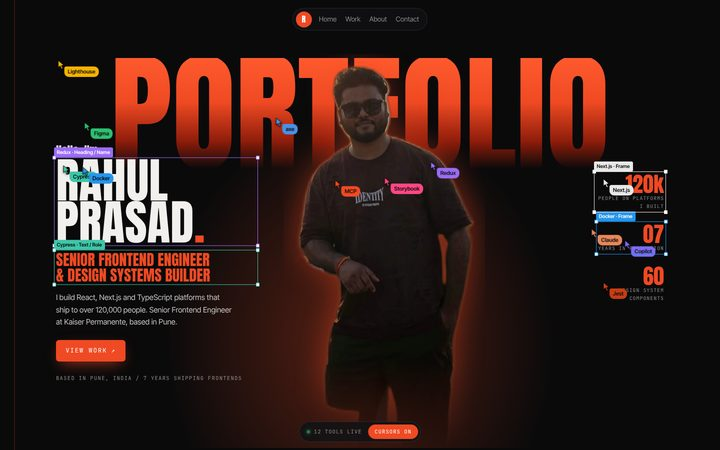
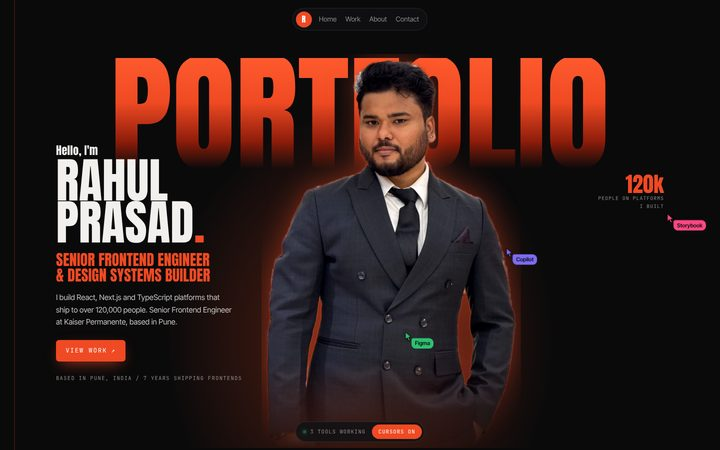
Use a marquee selection and the suit portrait in Live build
Each cursor now presses at an element's top-left corner and drags a
sky-blue rubber-band rectangle to its bottom-right; the element is
revealed inside the rectangle as it grows, then gets its labelled
selection frame.

Replace the hero cut-out with a background-removed portrait in a suit.

diff --git a/designs/live/script.js b/designs/live/script.js
@@ -63,7 +63,7 @@
         <section class="hero" aria-labelledby="hero-name">
             <p class="hero__word" aria-hidden="true" data-select="Text / Portfolio">Portfolio</p>
             <figure class="hero__photo" data-select="Image / Rahul">
-                <img src="../../images/rahul-cutout.webp" alt="${e(P.photoAlt)}" width="817" height="1600">
+                <img src="../../images/rahul-suit.webp" alt="Rahul in a dark double-breasted suit, white shirt and black tie" width="922" height="1400">
             </figure>
 
             <div class="hero__copy">
@@ -302,6 +302,16 @@
         el.classList.add('is-popped');
     }
 
+    /* The marquee: press at the top-left of the element, drag a sky-blue
+       rectangle to the bottom-right, and the element appears inside it */
+    function marquee(color) {
+        const m = document.createElement('div');
+        m.className = 'marquee';
+        if (color) m.style.setProperty('--sel', color);
+        layer.appendChild(m);
+        return m;
+    }
+
     function work(c) {
         const el = c.queue.shift();
         if (!el) return leave(c);
@@ -312,34 +322,38 @@
             return work(c);
         }
 
-        // the element waits off to the side the cursor comes from, then is dragged in
-        const side = c.x < r.left + r.width / 2 ? -1 : 1;
-        const dx = side * (36 + Math.random() * 44), dy = 18 + Math.random() * 26;
-        const gx = Math.max(6, Math.min(r.width - 10, 16 + Math.random() * Math.min(140, r.width * .4)));
-        const gy = Math.max(4, Math.min(r.height - 6, 10 + Math.random() * Math.min(28, r.height * .5)));
-        el.style.translate = `${dx}px ${dy}px`;
-        el.classList.remove('is-pending');
-        el.classList.add('is-ghost');
+        const pad = 6;
+        const corner = function () { const q = el.getBoundingClientRect(); return [q.left - pad, q.top - pad]; };
 
-        const grip = function () { const q = el.getBoundingClientRect(); return [q.left + gx, q.top + gy]; };
-
-        travel(c, grip, 420, function () {
-            const box = select(el, c.name + ' · ' + el.dataset.select, c.color);
-            el.classList.remove('is-ghost');
+        travel(c, corner, 420, function () {
             c.node.classList.add('is-press');
-            setTimeout(function () {
-                animate(520, function (t) {
-                    const k = 1 - ease(t);
-                    el.style.translate = `${(dx * k).toFixed(1)}px ${(dy * k).toFixed(1)}px`;
-                    const p = grip();
-                    setCursor(c, p[0], p[1]);
-                }, function () {
-                    el.style.translate = '';
-                    c.node.classList.remove('is-press');
-                    if (el.matches('[data-count]')) countUp(el);
-                    setTimeout(function () { release(box); work(c); }, 180);
-                });
-            }, 150);
+            const m = marquee(c.color);
+            el.classList.remove('is-pending');
+            el.classList.add('is-revealing');
+            const ms = Math.min(900, 420 + Math.sqrt(r.width * r.height) * .9);
+
+            animate(ms, function (t) {
+                const k = ease(t);
+                const q = el.getBoundingClientRect();
+                const x0 = q.left - pad, y0 = q.top - pad;
+                const w = (q.width + pad * 2) * k, h = (q.height + pad * 2) * Math.min(1, k * 1.08);
+                m.style.transform = `translate(${x0}px, ${y0}px)`;
+                m.style.width = w + 'px';
+                m.style.height = h + 'px';
+                // the element shows only inside the marquee as it grows
+                el.style.clipPath = `inset(-${pad}px ${Math.max(0, q.width + pad - w)}px ${Math.max(0, q.height + pad - h)}px -${pad}px)`;
+                setCursor(c, x0 + w, y0 + h);
+            }, function () {
+                el.style.clipPath = '';
+                el.classList.remove('is-revealing');
+                c.node.classList.remove('is-press');
+                if (el.matches('[data-count]')) countUp(el);
+                // release: the marquee fades into a selection frame with a tag
+                m.classList.add('is-done');
+                const box = select(el, c.name + ' · ' + el.dataset.select, c.color);
+                setTimeout(function () { m.remove(); }, 300);
+                setTimeout(function () { release(box); work(c); }, 380);
+            });
         });
     }
 

diff --git a/designs/live/style.css b/designs/live/style.css
@@ -364,7 +364,20 @@ main { max-width: 84rem; margin: 0 auto; padding: 0 clamp(1.5rem, 5vw, 4rem); ov
 /* Build states: waiting off-stage, picked up (ghost), placed
  * ------------------------------------------------------------------- */
 .is-pending { opacity: 0; }
-.is-ghost { opacity: .35; }
+.is-revealing { opacity: 1; }
+
+/* the sky-blue rubber-band selection, as on a desktop */
+.marquee {
+    position: absolute;
+    left: 0;
+    top: 0;
+    border: 1px solid rgba(120, 190, 255, .95);
+    background: rgba(56, 160, 255, .22);
+    box-shadow: inset 0 0 0 1px rgba(255, 255, 255, .08);
+    transition: opacity .3s;
+}
+
+.marquee.is-done { opacity: 0; }
 [data-select] { transition: opacity .25s; }
 .is-popped { animation: pop .6s var(--ease) both; }
 @keyframes pop { from { opacity: 0; translate: 0 16px; } }
